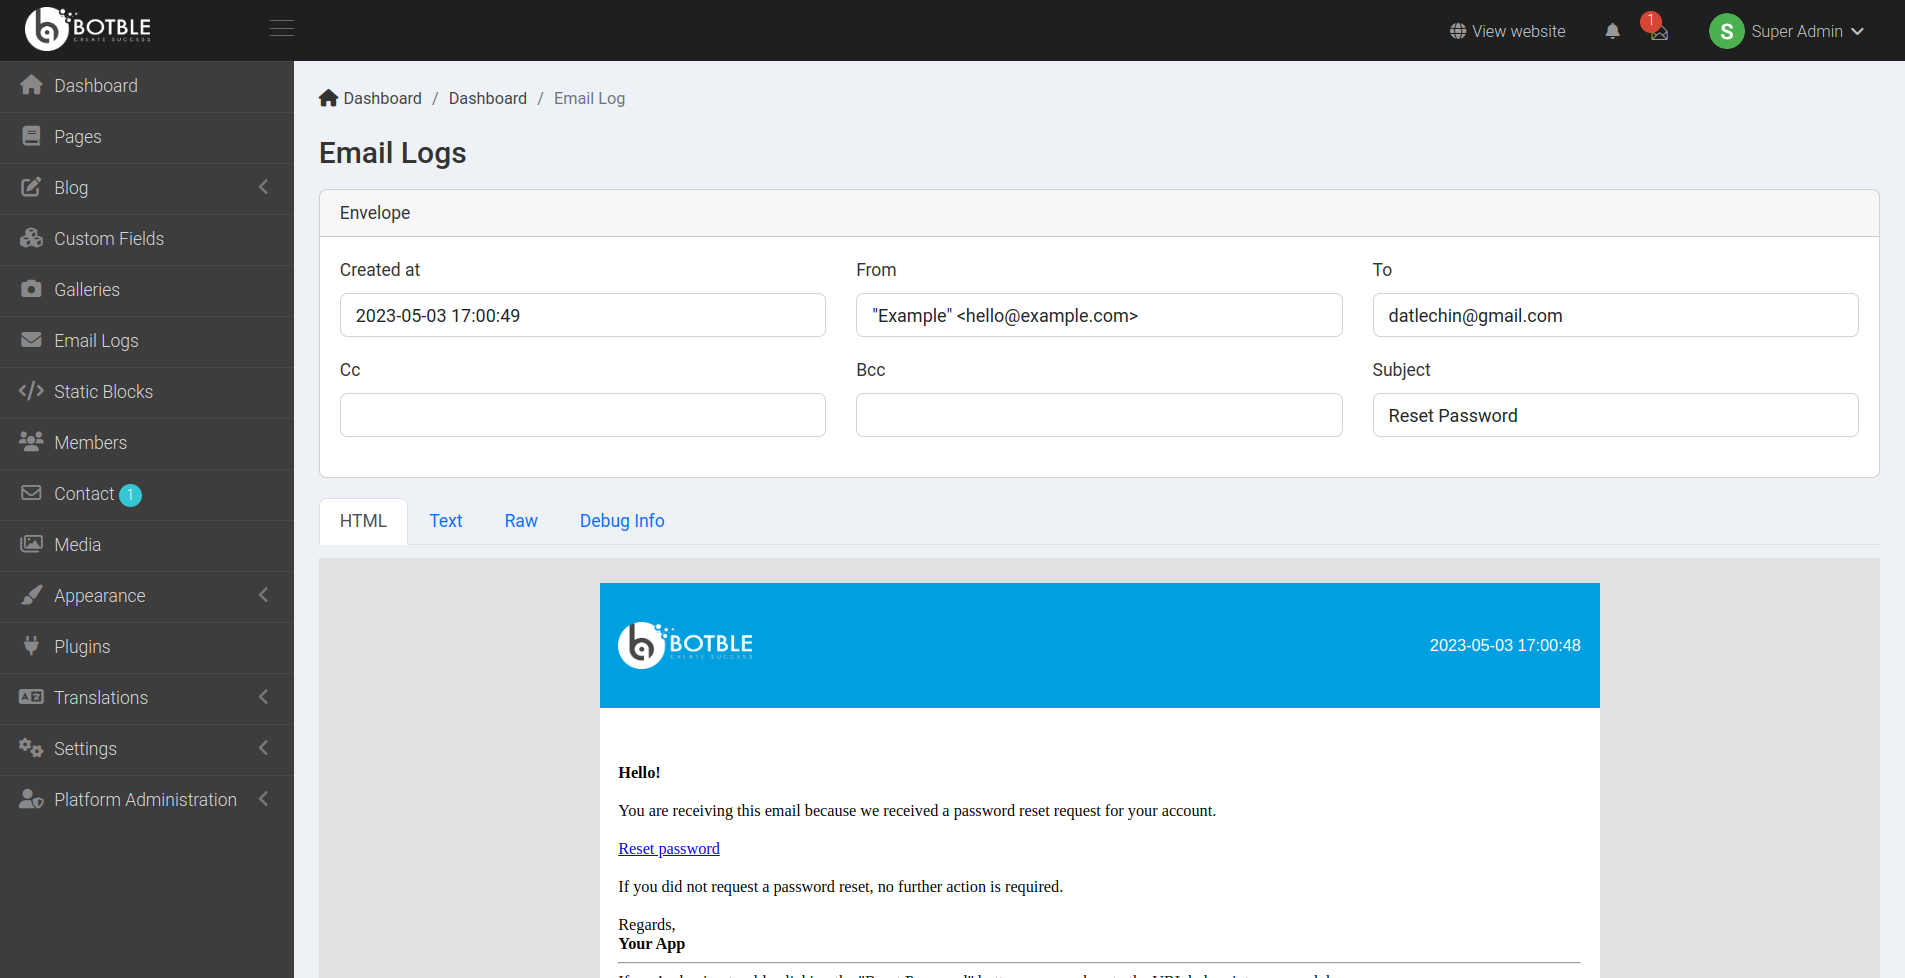
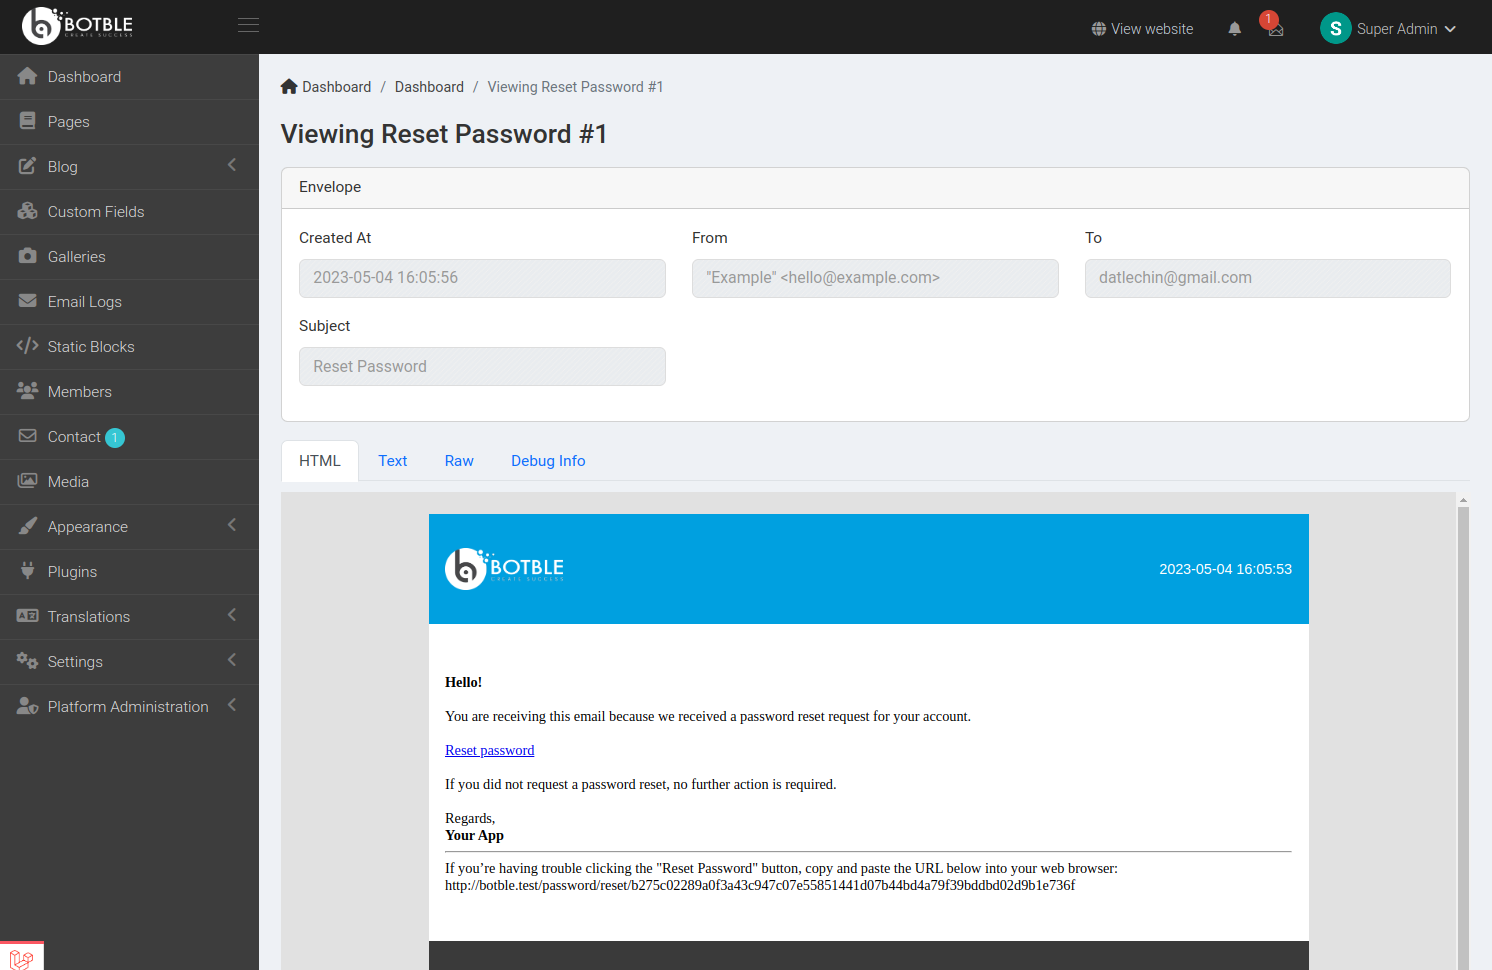
Refactor code (#1)

diff --git a/resources/views/email-logs/show.blade.php b/resources/views/email-logs/show.blade.php
@@ -2,59 +2,63 @@
 
 @php
     $bodies = [
-        'html_body' => __('HTML'),
-        'text_body' => __('Text'),
-        'raw_body' => __('Raw'),
-        'debug_info' => __('Debug Info'),
+        'html_body' => trans('datlechin/email-log::email-log.html_body'),
+        'text_body' => trans('datlechin/email-log::email-log.text_body'),
+        'raw_body' => trans('datlechin/email-log::email-log.raw_body'),
+        'debug_info' => trans('datlechin/email-log::email-log.debug_info'),
     ];
 @endphp
 
 @section('content')
-    <h4 class="fs-4 mb-3">{{ __('Email Logs') }}</h4>
+    <h4 class="fs-4 mb-3">{{ trans('datlechin/email-log::email-log.viewing_email_log', ['name' => $emailLog->subject, 'id' => $emailLog->id]) }}</h4>
 
     <div class="card">
-        <div class="card-header">{{ __('Envelope') }}</div>
+        <div class="card-header">{{ trans('datlechin/email-log::email-log.envelope') }}</div>
         <div class="card-body">
             <div class="row">
                 <div class="col-md-4">
                     <div class="form-group">
-                        <label for="created_at" class="form-label">{{ __('Created at') }}</label>
-                        <input type="text" id="created_at" class="form-control" value="{{ $emailLog->created_at }}" readonly>
+                        <label for="created_at" class="form-label">{{ trans('core/base::tables.created_at') }}</label>
+                        <input type="text" id="created_at" class="form-control" value="{{ $emailLog->created_at }}" disabled>
                     </div>
                 </div>
 
                 <div class="col-md-4">
                     <div class="form-group">
-                        <label for="from" class="form-label">{{ __('From') }}</label>
-                        <input type="text" id="from" class="form-control" value="{{ $emailLog->from }}" readonly>
+                        <label for="from" class="form-label">{{ trans('datlechin/email-log::email-log.from') }}</label>
+                        <input type="text" id="from" class="form-control" value="{{ $emailLog->from }}" disabled>
                     </div>
                 </div>
 
                 <div class="col-md-4">
                     <div class="form-group">
-                        <label for="to" class="form-label">{{ __('To') }}</label>
-                        <input type="text" id="to" class="form-control" value="{{ $emailLog->to }}" readonly>
+                        <label for="to" class="form-label">{{ trans('datlechin/email-log::email-log.to') }}</label>
+                        <input type="text" id="to" class="form-control" value="{{ $emailLog->to }}" disabled>
                     </div>
                 </div>
 
-                <div class="col-md-4">
-                    <div class="form-group">
-                        <label for="cc" class="form-label">{{ __('Cc') }}</label>
-                        <input type="text" id="cc" class="form-control" value="{{ $emailLog->cc }}" readonly>
+                @if($emailLog->cc)
+                    <div class="col-md-4">
+                        <div class="form-group">
+                            <label for="cc" class="form-label">{{ trans('datlechin/email-log::email-log.cc') }}</label>
+                            <input type="text" id="cc" class="form-control" value="{{ $emailLog->cc }}" disabled>
+                        </div>
                     </div>
-                </div>
+                @endif
+
+                @if($emailLog->bcc)
+                    <div class="col-md-4">
+                        <div class="form-group">
+                            <label for="bcc" class="form-label">{{ trans('datlechin/email-log::email-log.bcc') }}</label>
+                            <input type="text" id="bcc" class="form-control" value="{{ $emailLog->bcc }}" disabled>
+                        </div>
+                    </div>
+                @endif
 
                 <div class="col-md-4">
                     <div class="form-group">
-                        <label for="bcc" class="form-label">{{ __('Bcc') }}</label>
-                        <input type="text" id="bcc" class="form-control" value="{{ $emailLog->bcc }}" readonly>
-                    </div>
-                </div>
-
-                <div class="col-md-4">
-                    <div class="form-group">
-                        <label for="subject" class="form-label">{{ __('Subject') }}</label>
-                        <input type="text" id="subject" class="form-control" value="{{ $emailLog->subject }}" readonly>
+                        <label for="subject" class="form-label">{{ trans('datlechin/email-log::email-log.subject') }}</label>
+                        <input type="text" id="subject" class="form-control" value="{{ $emailLog->subject }}" disabled>
                     </div>
                 </div>
             </div>
@@ -75,9 +79,9 @@
             @foreach($bodies as $key => $value)
                 <div @class(['tab-pane fade', 'show active' => $loop->first]) id="{{ $key }}-tab-pane" role="tabpanel" aria-labelledby="{{ $key }}-tab" tabindex="0">
                     @if(in_array($key, ['text_body', 'raw_body', 'debug_info'], true))
-                        <textarea class="form-control" id="{{ $key }}" rows="15" readonly>{{ $emailLog->$key }}</textarea>
+                        <textarea class="form-control" id="{{ $key }}" rows="15" disabled>{{ $emailLog->$key }}</textarea>
                     @else
-                        <iframe width="100%" srcdoc="{{ $emailLog->$key }}"></iframe>
+                        <iframe width="100%" id="{{ $key }}" srcdoc="{{ $emailLog->$key }}"></iframe>
                     @endif
                 </div>
             @endforeach
@@ -92,7 +96,7 @@
                 Botble.initCodeEditor(element);
             }
 
-            $('iframe').each(function () {
+            $('#html_body').each(function () {
                 $(this).height($(this).contents().find('html').height());
             });
         });

diff --git a/src/Tables/EmailLogTable.php b/src/Tables/EmailLogTable.php
@@ -4,6 +4,7 @@ declare(strict_types=1);
 
 namespace Datlechin\EmailLog\Tables;
 
+use Botble\Base\Facades\BaseHelper;
 use Illuminate\Database\Query\Builder as QueryBuilder;
 use Illuminate\Database\Eloquent\Relations\Relation;
 use Illuminate\Contracts\Routing\UrlGenerator;
@@ -23,7 +24,7 @@ class EmailLogTable extends TableAbstract
     {
         parent::__construct($table, $urlGenerator);
 
-        if (! $this->request()->user()->hasPermission('email-logs.delete')) {
+        if (! $this->request()->user()->hasAnyPermission(['email-logs.show', 'email-logs.destroy'])) {
             $this->hasOperations = false;
         }
     }
@@ -36,7 +37,7 @@ class EmailLogTable extends TableAbstract
                 return $this->getCheckbox($item->id);
             })
             ->editColumn('created_at', function (EmailLog $item) {
-                return $item->created_at;
+                return BaseHelper::formatDateTime($item->created_at);
             })
             ->editColumn('from', function (EmailLog $item) {
                 return str_replace('<', '&lt;', $item->from);
@@ -80,20 +81,20 @@ class EmailLogTable extends TableAbstract
     {
         return [
             'id' => [
-                'title' => __('ID'),
+                'title' => trans('core/base::tables.id'),
                 'width' => '20px',
             ],
             'from' => [
-                'title' => __('From'),
+                'title' => trans('datlechin/email-log::email-log.from'),
             ],
             'to' => [
-                'title' => __('To'),
+                'title' => trans('datlechin/email-log::email-log.to'),
             ],
             'subject' => [
-                'title' => __('Subject'),
+                'title' => trans('datlechin/email-log::email-log.subject'),
             ],
             'created_at' => [
-                'title' => __('Created at'),
+                'title' => trans('core/base::tables.created_at'),
                 'width' => '100px',
             ],
         ];

diff --git a/src/Http/Controllers/EmailLogController.php b/src/Http/Controllers/EmailLogController.php
@@ -7,7 +7,6 @@ namespace Datlechin\EmailLog\Http\Controllers;
 use Datlechin\EmailLog\Providers\EmailLogServiceProvider;
 use Botble\Base\Http\Controllers\BaseController;
 use Botble\Base\Http\Responses\BaseHttpResponse;
-use Botble\Base\Traits\HasDeleteManyItemsTrait;
 use Symfony\Component\HttpFoundation\Response;
 use Datlechin\EmailLog\Tables\EmailLogTable;
 use Botble\Base\Events\DeletedContentEvent;
@@ -17,26 +16,12 @@ use Botble\Base\Facades\PageTitle;
 use Botble\Base\Facades\Assets;
 use Illuminate\Http\Request;
 use Exception;
-use Closure;
 
 class EmailLogController extends BaseController
 {
-    use HasDeleteManyItemsTrait;
-
-    public function __construct()
-    {
-        $this->middleware(function (Request $request, Closure $next) {
-            if (! request()->user()->hasPermission('email-logs.index')) {
-                abort(403);
-            }
-
-            return $next($request);
-        });
-    }
-
     public function index(EmailLogTable $emailLogTable): View|Response
     {
-        PageTitle::setTitle(__('Email Log'));
+        PageTitle::setTitle(trans('datlechin/email-log::email-log.name'));
 
         return $emailLogTable->renderTable();
     }
@@ -50,7 +35,7 @@ class EmailLogController extends BaseController
             'vendor/core/core/base/libraries/codemirror/lib/css.js',
         ]);
 
-        PageTitle::setTitle(__('Email Log'));
+        PageTitle::setTitle(trans('datlechin/email-log::email-log.viewing_email_log', ['name' => $emailLog->subject, 'id' => $emailLog->id]));
 
         return view('datlechin/email-log::email-logs.show', compact('emailLog'));
     }

diff --git a/routes/web.php b/routes/web.php
@@ -6,15 +6,19 @@ use Datlechin\EmailLog\Http\Controllers\EmailLogController;
 use Illuminate\Support\Facades\Route;
 use Botble\Base\Facades\BaseHelper;
 
-Route::prefix(BaseHelper::getAdminPrefix())
-    ->middleware(['web', 'core', 'auth'])
-    ->group(function () {
-        Route::resource('email-logs', EmailLogController::class)
-            ->only('index', 'destroy');
+Route::group([
+    'permission' => 'email-logs.index',
+    'prefix' => BaseHelper::getAdminPrefix(),
+    'middleware' => ['web', 'core', 'auth'],
+], function () {
+    Route::resource('email-logs', EmailLogController::class)
+        ->only('index', 'destroy');
 
-        Route::get('email-logs/{email_log}', [EmailLogController::class, 'show'])
-            ->name('email-logs.show');
+    Route::get('email-logs/{email_log}', [EmailLogController::class, 'show'])
+        ->name('email-logs.show');
 
+    Route::group(['permission' => 'email-logs.destroy'], function () {
         Route::delete('email-logs/deletes', [EmailLogController::class, 'deletes'])
             ->name('email-logs.deletes');
     });
+});

diff --git a/resources/views/settings.blade.php b/resources/views/settings.blade.php
@@ -1,12 +1,12 @@
 <x-core-setting::section
-    :title="__('Email Log')"
-    :description="__('Configure the email log')"
+    :title="trans('datlechin/email-log::email-log.settings.title')"
+    :description="trans('datlechin/email-log::email-log.settings.description')"
 >
     <x-core-setting::text-input
         name="keep_email_log_for_days"
         type="number"
-        :label="__('Keep email log for days')"
+        :label="trans('datlechin/email-log::email-log.settings.keep_log_for_days')"
         :value="setting('keep_email_log_for_days', 30)"
-        :helper-text="__('You need to set up the cron job to delete the email log. See the documentation for more information.')"
+        :helper-text="trans('datlechin/email-log::email-log.settings.keep_log_for_days_description')"
     />
 </x-core-setting::section>

diff --git a/resources/lang/en/email-log.php b/resources/lang/en/email-log.php
@@ -1,0 +1,25 @@
+<?php
+
+declare(strict_types=1);
+
+return [
+    'name' => 'Email Log',
+    'settings' => [
+        'title' => 'Email Log',
+        'description' => 'Configure Email Log settings',
+        'keep_log_for_days' => 'Keep log for days',
+        'keep_log_for_days_description' => 'You need to set up the cron job to delete the email log. See the documentation for more information.',
+    ],
+    'view_button' => 'View',
+    'viewing_email_log' => 'Viewing :name #:id',
+    'envelope' => 'Envelope',
+    'from' => 'From',
+    'to' => 'To',
+    'cc' => 'CC',
+    'bcc' => 'BCC',
+    'subject' => 'Subject',
+    'html_body' => 'HTML',
+    'text_body' => 'Text',
+    'raw_body' => 'Raw',
+    'debug_info' => 'Debug Info',
+];

diff --git a/src/Models/EmailLog.php b/src/Models/EmailLog.php
@@ -4,14 +4,16 @@ declare(strict_types=1);
 
 namespace Datlechin\EmailLog\Models;
 
-use Illuminate\Database\Eloquent\Prunable;
+use Illuminate\Database\Eloquent\MassPrunable;
 use Botble\Base\Models\BaseQueryBuilder;
 use Botble\Base\Models\BaseModel;
 use Carbon\Carbon;
 
 class EmailLog extends BaseModel
 {
-    use Prunable;
+    use MassPrunable;
+
+    protected $table = 'email_logs';
 
     protected $fillable = [
         'from',
@@ -30,7 +32,7 @@ class EmailLog extends BaseModel
         return static::where(
             'created_at',
             '<=',
-            Carbon::now()->subDays(setting('keep_email_log_for_days', 30))
+            Carbon::now()->subDays((int) setting('keep_email_log_for_days', 30))
         );
     }
 }

diff --git a/resources/views/partials/show-button.blade.php b/resources/views/partials/show-button.blade.php
@@ -1,3 +1,9 @@
-<a href="{{ route('email-logs.show', $item) }}" class="btn btn-icon btn-sm btn-info" data-bs-toggle="tooltip" role="button" data-bs-original-title="{{ __('View') }}">
+<a
+    href="{{ route('email-logs.show', $item) }}"
+    class="btn btn-icon btn-sm btn-info"
+    data-bs-toggle="tooltip"
+    role="button"
+    data-bs-original-title="{{ trans('datlechin/email-log::email-log.view_button') }}"
+>
     <i class="fa fa-eye"></i>
 </a>

diff --git a/config/permissions.php b/config/permissions.php
@@ -8,8 +8,13 @@ return [
         'flag' => 'email-logs.index',
     ],
     [
+        'name' => 'Show',
+        'flag' => 'email-logs.show',
+        'parent_flag' => 'email-logs.index',
+    ],
+    [
         'name' => 'Delete',
-        'flag' => 'email-logs.delete',
+        'flag' => 'email-logs.destroy',
         'parent_flag' => 'email-logs.index',
     ],
 ];

diff --git a/src/Plugin.php b/src/Plugin.php
@@ -1,5 +1,7 @@
 <?php
 
+declare(strict_types=1);
+
 namespace Datlechin\EmailLog;
 
 use Botble\PluginManagement\Abstracts\PluginOperationAbstract;
@@ -9,8 +11,6 @@ class Plugin extends PluginOperationAbstract
 {
     public static function remove(): void
     {
-        Schema::disableForeignKeyConstraints();
-
         Schema::dropIfExists('email_logs');
     }
 }

diff --git a/src/Providers/EmailLogServiceProvider.php b/src/Providers/EmailLogServiceProvider.php
@@ -20,6 +20,7 @@ class EmailLogServiceProvider extends ServiceProvider
         $this
             ->setNamespace('datlechin/email-log')
             ->loadAndPublishConfigurations(['permissions'])
+            ->loadAndPublishTranslations()
             ->loadAndPublishViews()
             ->loadRoutes()
             ->loadMigrations();

diff --git a/README.md b/README.md
@@ -37,7 +37,7 @@ Please see [CONTRIBUTING](CONTRIBUTING.md) for details.
 
 ## Security
 
-If you discover any security related issues, please email datlechin@gmail.com instead of using the issue tracker.
+If you discover any security-related issues, please email datlechin@gmail.com instead of using the issue tracker.
 
 ## Credits
 
